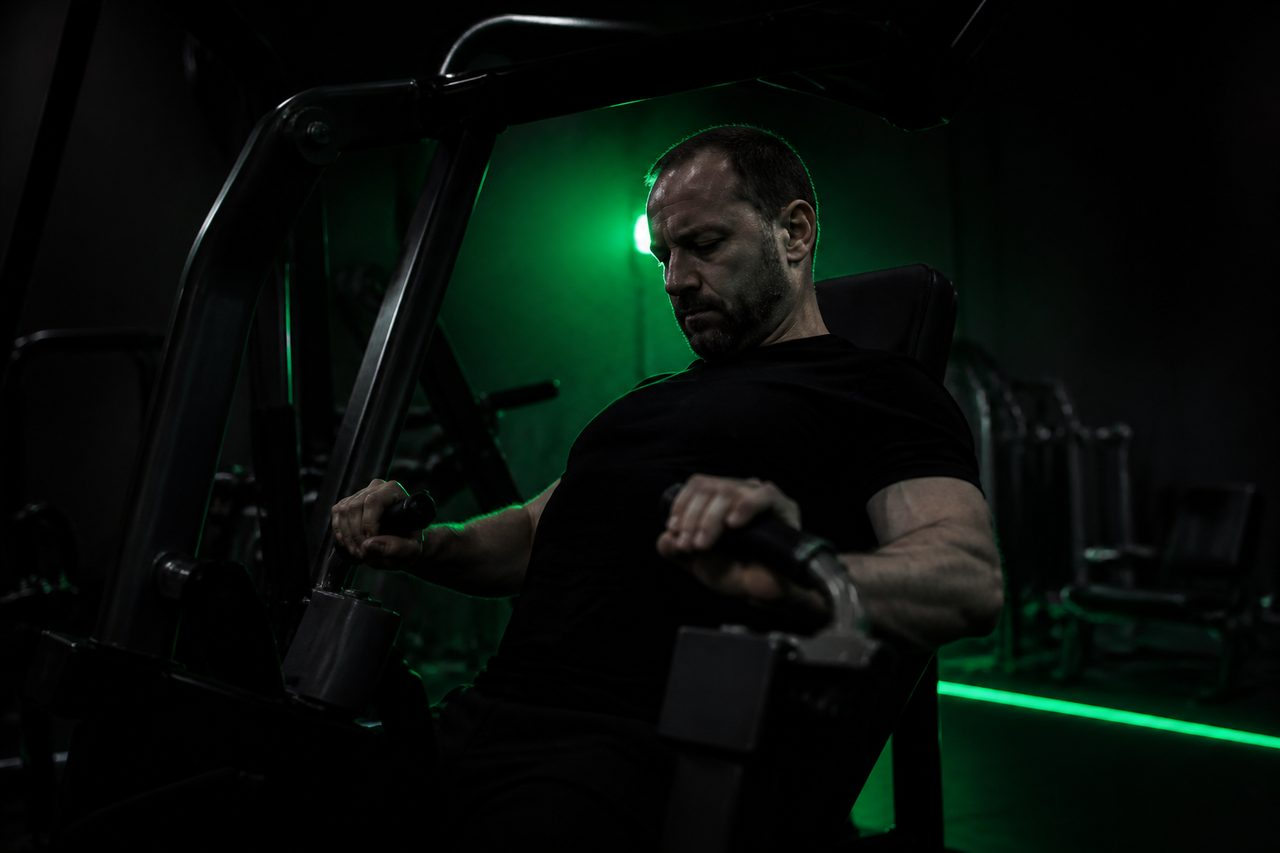
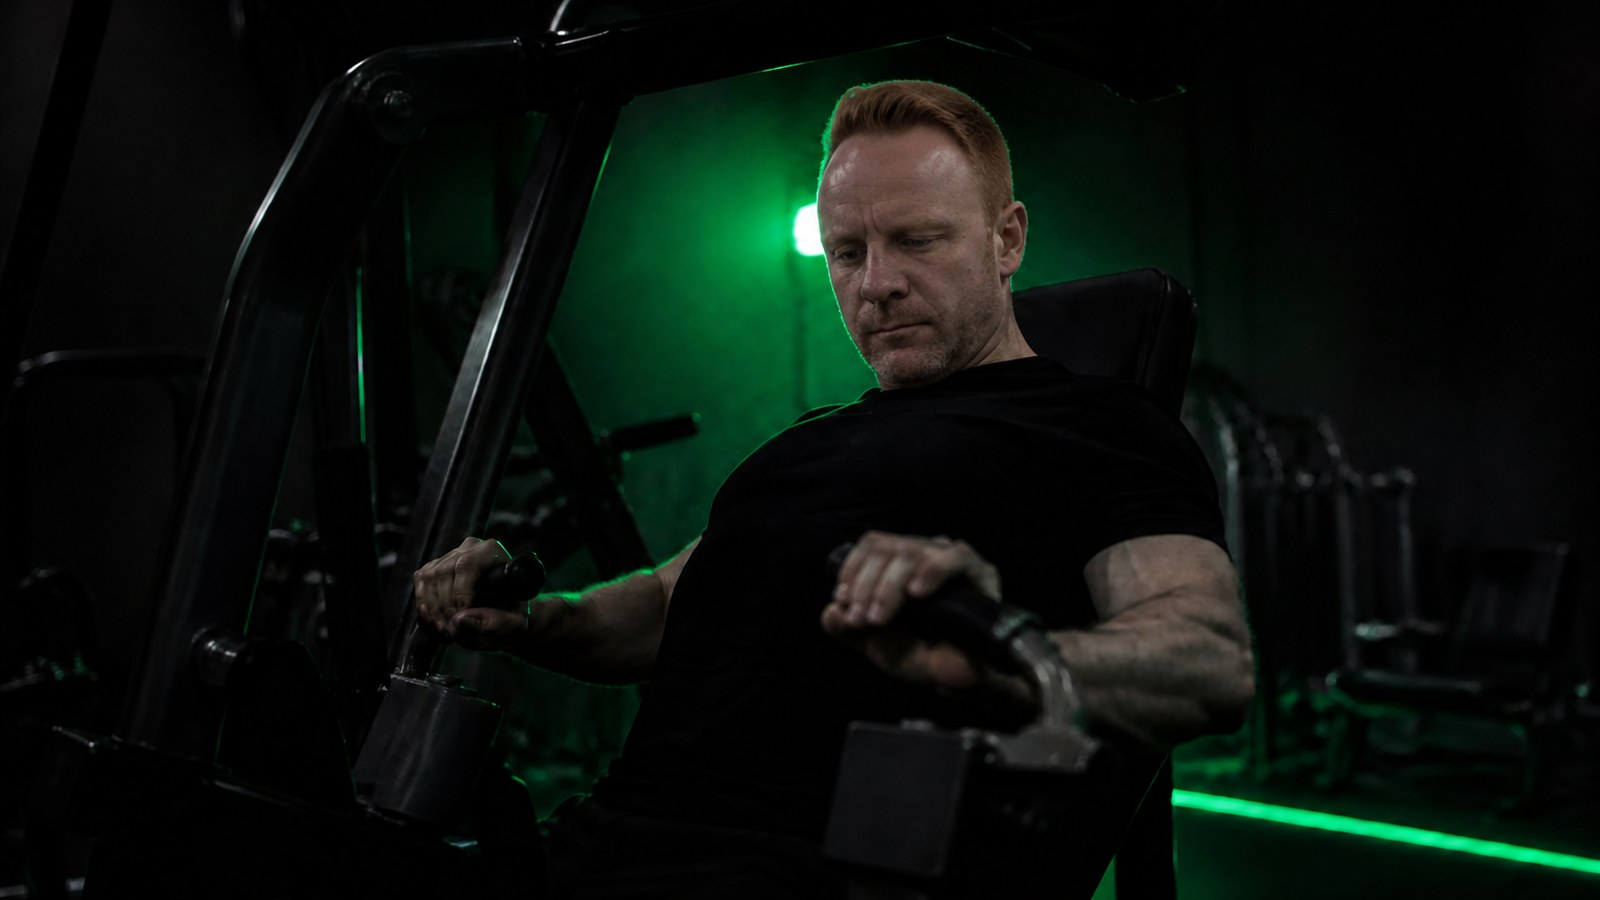
Rick.Fit: his own face on the heroes, and eight of them instead of four
The heroes that shipped on 7 Sept were stock-style photography of somebody else.
He wanted to be the man in them, with his goal renders added alongside - not the
originals replaced, which is what the first attempt did.

ricky-face-swap.mjs is the sibling of ricky-transform.mjs: that one keeps him and
changes the body, this one keeps the body and changes the head. It drives both
families off one reference - the two stock shots that contain a face, and the
four goal renders, whose invented face was wrong in identity as much as in age.

Only stock-1 and stock-4 have a face to swap. stock-2 is a close crop of an arm
and stock-3 is an empty gym; asked to swap a face in those the model invents a
whole new man and restages the shot, so those two ship exactly as they were.

Two rounds came back looking mid-fifties on a 45-year-old. The cause was the
reference, not the prompt: a 150x220-pixel crop off a mirror selfie leaves the
model to invent the face, and what it invents is wrinkles. Arguing the age into
the prompt helped a little. A real front-on photo - now a 670x1080 crop, about
twenty times the actual facial detail - fixed it properly and corrected the
identity too. The renders were re-swapped from their first-generation sources so
each output is one edit on an original rather than two edits stacked.

make-ricky-heroes.py crops all eight to the 16:9 the carousel wants. The goal
renders need a deliberate window rather than a centre crop: portrait under
[…]

diff --git a/src/themes.js b/src/themes.js
@@ -149,13 +149,19 @@ export const BRANDS = {
     logo: '/brands/ricky/icon-512.png',
     // Shipped with the build rather than uploaded: THEME.heroImages is
     // concatenated ahead of any the coach uploads, so this needs no storage
-    // bucket and no credentials. Generated with gpt-image-2; see
-    // scripts/make-ricky-heroes.mjs for the prompts that produced them.
+    // bucket and no credentials. All eight are built by
+    // scripts/make-ricky-heroes.py, which documents where each one comes from:
+    // the original gym shots with Ricky's face swapped in, the two originals
+    // that had no face to swap, and his own goal renders, interleaved.
     heroImages: [
       '/brands/ricky/hero-1.jpg',
-      '/brands/ricky/hero-3.jpg',
       '/brands/ricky/hero-2.jpg',
+      '/brands/ricky/hero-3.jpg',
       '/brands/ricky/hero-4.jpg',
+      '/brands/ricky/hero-5.jpg',
+      '/brands/ricky/hero-6.jpg',
+      '/brands/ricky/hero-7.jpg',
+      '/brands/ricky/hero-8.jpg',
     ],
     features: {
       testing: true, templates: true, programs: true, recipes: true, videos: true,

diff --git a/scripts/make-ricky-heroes.py b/scripts/make-ricky-heroes.py
@@ -1,0 +1,64 @@
+"""Build Rick.Fit's home-screen heroes.
+
+Eight images, from three places, all cropped to the 16:9 the carousel wants:
+
+  1. Face-swapped originals (.private/ricky/out/face-N.png)
+     The 7 Sept heroes with Ricky's head in place of the model's. Only stock-1
+     and stock-4 had a visible face, so only those two were swapped.
+
+  2. Untouched originals (.private/ricky/stock/stock-N.jpg)
+     stock-2 is a close crop of an arm and a dumbbell; stock-3 is an empty gym.
+     Neither contains a person to swap. Asked to swap a face anyway the model
+     invented a whole new man and a new scene, which is not what was wanted —
+     so these two ship exactly as they always were.
+
+  3. Goal renders (.private/ricky/out/goal-*.png)
+     Ricky's own physique renders. Portrait 1024x1536, so they need a deliberate
+     crop: under object-fit:cover a raw portrait becomes a band across the hips
+     and loses the head entirely. A 576-tall window from y=240 holds head,
+     shoulders, torso and arms, which is the part of the picture that is the point.
+
+Order interleaves the gym scenes with the physique shots so the carousel does not
+run four of one then four of the other.
+
+Run: python scripts/make-ricky-heroes.py
+"""
+
+from PIL import Image
+from pathlib import Path
+
+ROOT = Path(".private/ricky")
+DEST = Path("public/brands/ricky")
+
+# (source, output, crop-window top, crop-window height)
+# Landscape sources are cropped a little above centre so heads are not clipped;
+# the portrait goal renders use the deliberate y=240 window described above.
+SOURCES = [
+    (ROOT / "out/face-1.png", "hero-1.jpg", 60, 864),
+    (ROOT / "out/goal-v3-lateral-raise.png", "hero-2.jpg", 240, 576),
+    (ROOT / "stock/stock-2.jpg", "hero-3.jpg", 50, 720),
+    (ROOT / "out/goal-july-16.png", "hero-4.jpg", 240, 576),
+    (ROOT / "out/face-4.png", "hero-5.jpg", 60, 864),
+    (ROOT / "out/goal-july-16-dumbbells.png", "hero-6.jpg", 240, 576),
+    (ROOT / "stock/stock-3.jpg", "hero-7.jpg", 50, 720),
+    (ROOT / "out/goal-v2.png", "hero-8.jpg", 240, 576),
+]
+
+OUT_W, OUT_H = 1600, 900
+
+
+def main():
+    for src, out_name, top, crop_h in SOURCES:
+        if not src.exists():
+            raise SystemExit(f"missing source: {src}")
+        im = Image.open(src).convert("RGB")
+        w, h = im.size
+        top = max(0, min(top, h - crop_h))  # never run off the bottom edge
+        im = im.crop((0, top, w, top + crop_h)).resize((OUT_W, OUT_H), Image.LANCZOS)
+        out = DEST / out_name
+        im.save(out, "JPEG", quality=88, optimize=True, progressive=True)
+        print(f"{src.name:32} -> {out_name}  ({out.stat().st_size // 1024} KB)")
+
+
+if __name__ == "__main__":
+    main()

diff --git a/tasks/todo.md b/tasks/todo.md
@@ -165,17 +165,88 @@ regression green on draft 6aa06e27):
       The change is insurance against the same failure at a bigger input, not a
       fix for a live fault.
 
+Done 2026-09-09 (deploy 6aa18e05, rick-fit.netlify.app):
+- [x] The `content[0].text` sweep. New shared helper `netlify/functions/_claude-text.mjs`
+      (`firstText` / `stopReason`), applied to barcode, exercise-guide, program-edit,
+      program-generate, recipe-ai, recipe-generate. It uses `||` not `??` on purpose:
+      the code it replaced fell back on an empty string too, and `??` would have sent
+      `''` to `JSON.parse` where it used to parse `'{}'` cleanly. Unit test
+      `tasks/test_claude_text.mjs` - 11 cases, most asserting the OLD behaviour, green.
+      NOTE: these functions are shared by all five brands but only Rick.Fit was
+      deployed. Kim, Paul, PPH and Elev8 still run the old code. That is deliberate -
+      deploying them would also ship the unflagged week meal plan (see above). Their
+      deploy is a separate decision.
+- [x] The three dark suites. `e2e_mealplans`, `e2e_wave3`, `e2e_personal` used
+      `@kymafit.test` fixtures, which Supabase rejects as an invalid email format.
+      Moved to `@e2e.kymafit.app` - one dedicated domain, so a single grep finds every
+      fixture account ever made and no real address can collide. All three PASS.
+      Fixture accounts from the verification run were deleted afterwards (5 auth
+      users, 1 template, 2 programmes); 0 left.
+- [x] Ricky's week plan is in the app. `client_meal_plans` now holds the 7-day,
+      28-meal rotation as "Lean & Strong - 7-day rotation"; the old hand-written
+      3-day plan is kept but inactive. `scripts/ricky-week-plan.mjs` now also emits
+      `.private/ricky/ricky-week-plan.json` in the app's plan shape
+      ([{label, meals:[{name, detail, kcal}]}]) so publishing never has to parse the
+      markdown back out. `macro_targets` corrected 2400/195 -> 2100/180/187/70 to
+      match the plan - they disagreed, so the remaining-calories readout was wrong
+      every day.
+- [x] Home-screen heroes: EIGHT, Rick.Fit only (corrected, deploy 6aa192db). First
+      pass replaced the four stock shots with his goal renders; he wanted the stock
+      shots KEPT with his face on the men in them, plus the goal renders added.
+      `scripts/ricky-face-swap.mjs` (new, sibling to ricky-transform.mjs - that one
+      keeps him and changes the body, this one keeps the body and changes the head)
+      sends the scene plus a face crop from july-16.jpg to gpt-image-2.
+      IMPORTANT: only stock-1 and stock-4 contain a visible face. stock-2 is a close
+      crop of an arm and stock-3 is an empty gym - asked to swap a face in those the
+      model invented an entirely new man and scene, so those two ship UNCHANGED.
+      Final set interleaves 2 swapped + 2 untouched originals + 4 goal renders.
+      Originals recovered from git into `.private/ricky/stock/`.
+- [x] De-aged, deploy 6aa19770. First pass came back looking mid-fifties; Ricky is
+      45 and asked for 40. Cause: the face reference is ~150x220 real pixels off a
+      mirror selfie, so the model invents the facial detail and what it invents is
+      wrinkles. "Match the reference" cannot fix that - the reference is too soft to
+      argue with, so the target age has to be stated outright in the prompt.
+      Face swaps: age block added to `ricky-face-swap.mjs` and re-run.
+      Goal renders: new `scripts/ricky-deage.mjs` edits the FACE ONLY in place.
+      Deliberately not regenerated from the four bespoke scripts - that would have
+      returned four different physiques and he liked these. Pre-de-age versions kept
+      as `*-aged.png`.
+- [x] Transformation plan with dates: `.private/ricky/ricky-transformation-plan.md`.
+      RESOLVED 2026-09-10 - measured 104 cm waist / 40 cm neck. The 32" was indeed a
+      jeans size, and the real tape is 41", so he is at ~27.6% body fat (24.0 kg fat,
+      63.0 kg lean) - higher than EITHER branch I had sketched. Target ~74 kg at 12%
+      allowing 2 kg of regained muscle, so ~13 kg to go, landing early April 2027 on
+      the current 2100 kcal. Mifflin-St Jeor predicts 0.43 kg/wk on that intake and he
+      is observing 0.46, so the dates are calibrated against his own data rather than
+      a formula. 2100 kcal CONFIRMED correct (the earlier assumption held). Advice is
+      to hold 2100 until Christmas then consider 1950 - at 27.6% a bigger deficit is
+      low-risk for muscle, but January is better timed than December.
+      Baseline logged to `body_measurements` (waist 104, body_fat 27.6, weight left
+      null - he gave a tape reading, not a new weigh-in; do not invent one).
+
+- [x] Real face reference, deploy 6aa26068. Ricky sent a proper front-on photo
+      (`.private/ricky/in/hero/face-source.jpg`); `face-ref.jpg` is now a 670x1080 crop
+      of it instead of a 150x220 upscale off a mirror selfie - about 20x the actual
+      facial detail. `ricky-face-swap.mjs` rewritten to drive BOTH families off it:
+      the 2 stock shots with a face, and the 4 goal renders (whose invented face was
+      wrong in identity, not just age - gaunter, more angular, wrong hair colour).
+      Goal renders re-swapped from their FIRST-generation `-aged.png` sources so each
+      output is one edit on an original, not two stacked. `ricky-deage.mjs` deleted -
+      superseded, a real reference beats arguing age into a prompt.
+- [x] Yoga: three 10-minute lounge-floor sessions in `workout_plans` (blocks + ball).
+      Hips & Hamstrings, Chest/Shoulders/Upper Back, Full Body Unwind. ALL WRIST-SAFE
+      by design - forearms, fists or hands on blocks, never flat palms under load,
+      because every pressing cue in his own programme says neutral grip and "if the
+      wrist grumbles". Weekly placement added to the transformation plan.
+
 Still open:
-- [ ] The remaining functions still read `content[0].text` rather than the first
-      TEXT block: barcode, exercise-guide, program-edit, program-generate,
-      recipe-ai, recipe-generate. All are on Haiku so none are broken today, but
-      any of them moved to a thinking model breaks silently. `analyze.mjs` has
-      always done it correctly — copy that.
-- [ ] Three suites fail on PRODUCTION as well as on drafts: `e2e_mealplans`,
-      `e2e_wave3`, `e2e_personal`. All three sign up throwaway accounts on
-      `.test` domains and Supabase now rejects those as an invalid email format.
-      Not a regression — but it means three suites have been dark for a while.
-      Fix: give the fixtures real-format addresses like the round-30 ones.
-- [ ] Ricky's own plan is generated by `scripts/ricky-week-plan.mjs` into
-      `.private/`. It is not in the app yet — his `client_meal_plans` row is
-      still the hand-written 3-template one he called boring.
+- [ ] Publishing a plan to `client_meal_plans` is still a manual SQL step - there is
+      no service-role key in `.env`, so a script cannot write through RLS. Either add
+      one, or have the publish script sign in as the coach.
+- [ ] Wave 3 #26 (event countdowns) would put the late-January target date on his
+      home screen as "N weeks to go". Not started - see the Wave 3 list above.
+- [ ] Asked 2026-09-09, not built: proactive comms for Rick.Fit - push (already
+      built, `push-*.mjs`), WhatsApp, and voice. Ricky asked whether the app can
+      phone him or WhatsApp him and ask questions.
+- [ ] Asked 2026-09-09: should Rick.Fit be its own repo? Recommendation was no - it
+      would fork one codebase into five and every fix would need doing five times.
